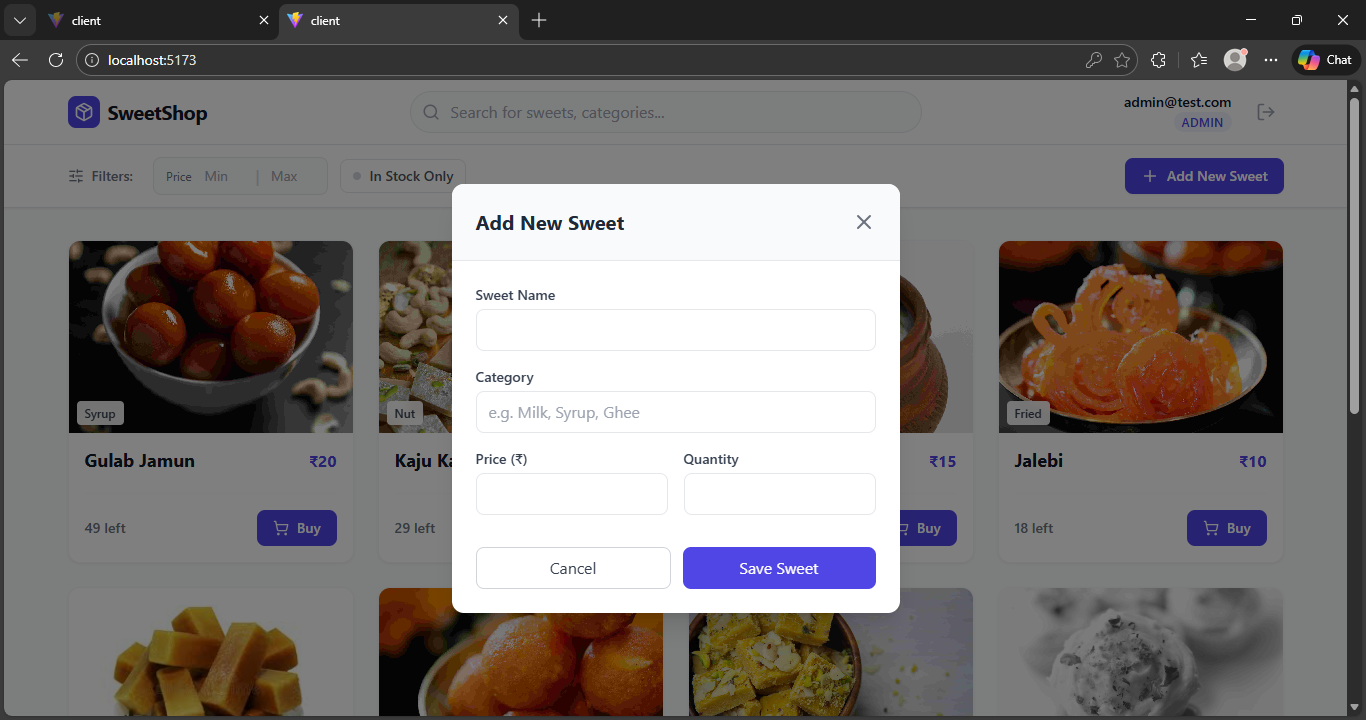
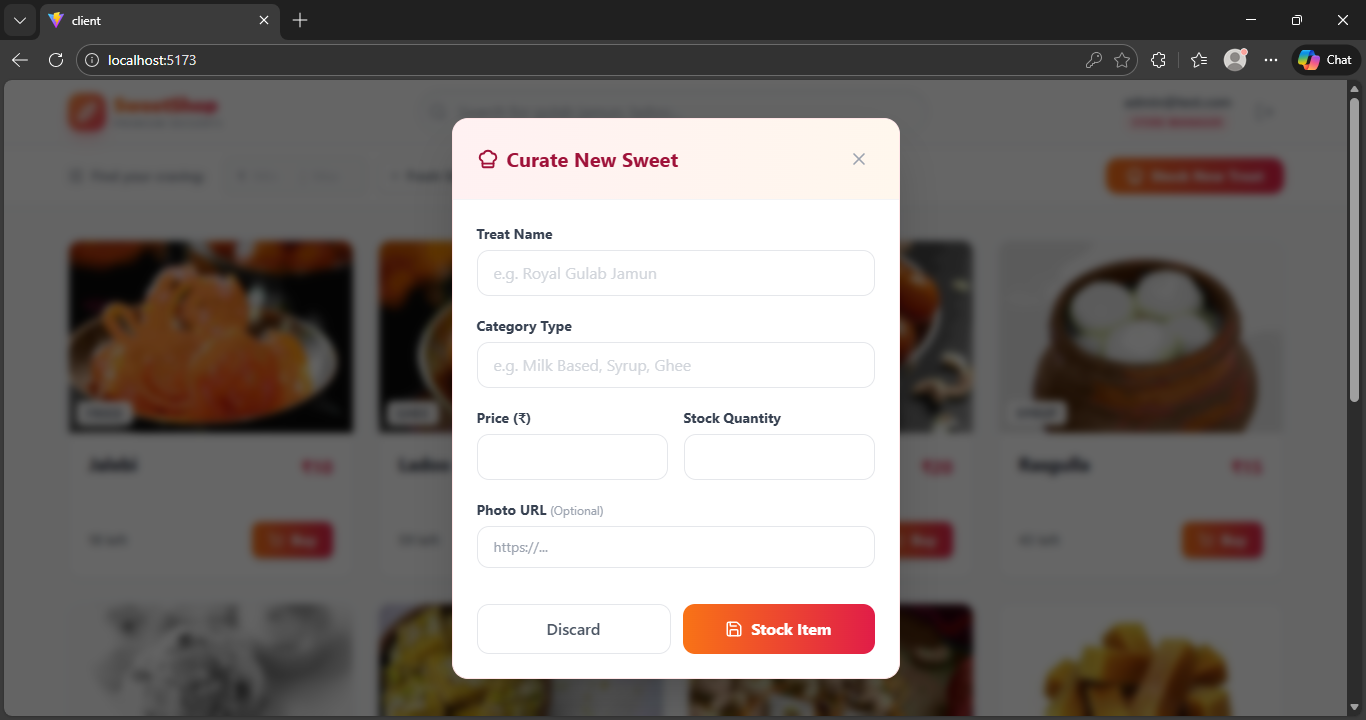
docs: update project screenshots
Updated README gallery to reflect the final Rose/Orange UI theme and mobile responsive layout.

diff --git a/README.md b/README.md
@@ -34,16 +34,15 @@ A full-stack **Software Craftsmanship assessment project**. This application man
 
 ## 📸 Application Screenshots
 
-### 1. Interactive Dashboard
-*Real-time inventory grid with Price & Availability filters.*
+### 🏪 The Shop Floor (Interactive Dashboard)
+*Features the new "SweetShop" rose-gold branding, real-time inventory grid, and smart filtering.*
 ![Dashboard](./screenshots/dashboard.png)
 
-### 2. Admin Inventory Management
-*Secure modal interface for Adding and Editing sweets.*
-![Admin Modal](./screenshots/admin-modal.png)
-
-### 2. Mobile View
-![Mobile View](./screenshots/mobile-view.png)
+### 🎨 Design & Experience
+| **Secure Entry (Auth)** | **Inventory Control** | **Mobile Responsive** |
+|:---:|:---:|:---:|
+| ![Login](./screenshots/login.png) | ![Modal](./screenshots/admin-modal.png) | ![Mobile](./screenshots/mobile-view.png) |
+| *Modern gradients & glassmorphism* | *Thematic "Recipe" management* | *Optimized for all devices* |
 
 ---
 
